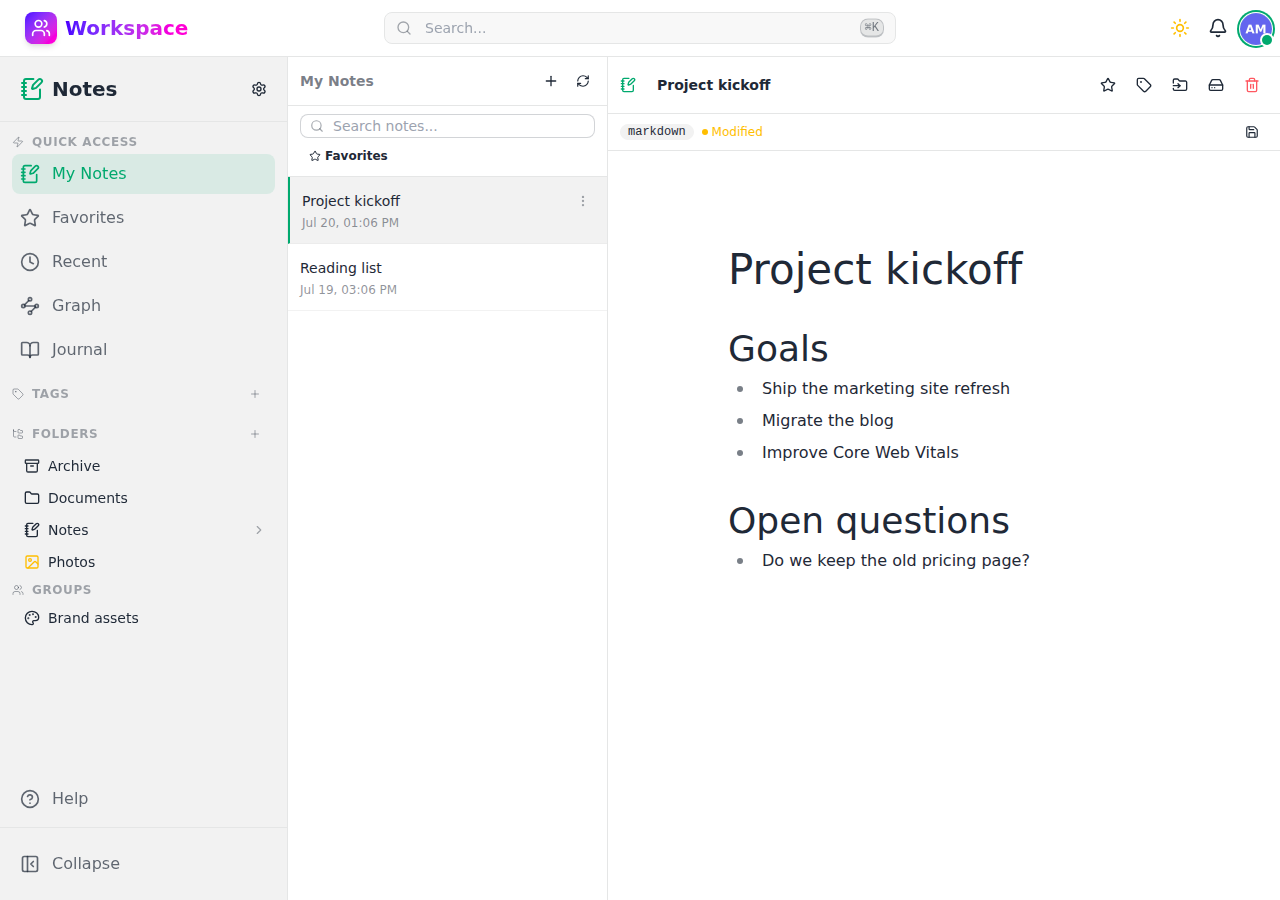
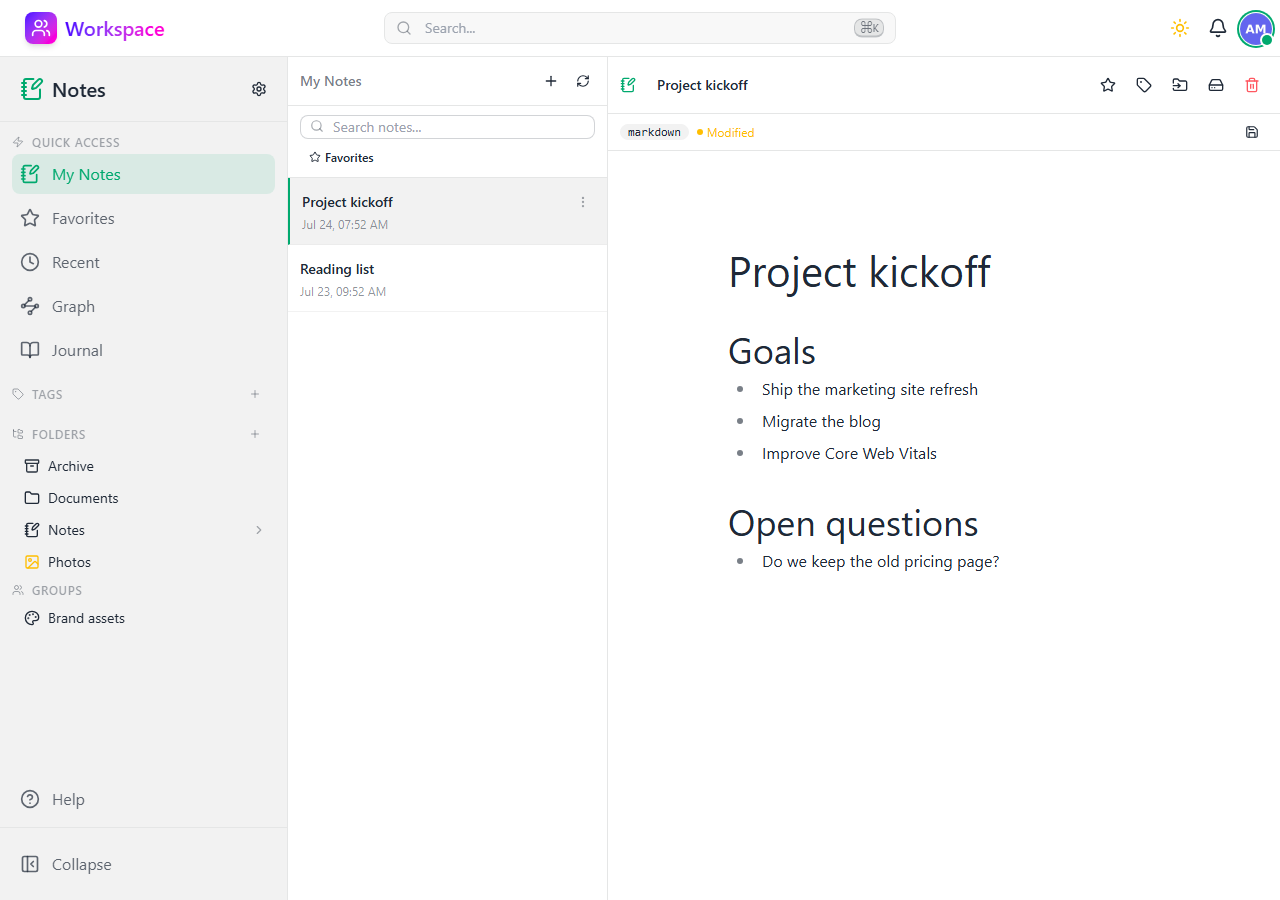
feat(screenshots): pin locale and timezone for consistent rendering

diff --git a/scripts/screenshots.py b/scripts/screenshots.py
@@ -47,6 +47,16 @@ VIEWPORT = {"width": 1280, "height": 900}
 USERNAME = "alex"
 PASSWORD = "screenshots-demo"
 
+# Pinned, not inherited from the host: pages format dates client-side with
+# toLocaleDateString(undefined, ...), so an unpinned context captures the
+# machine's locale (a French host writes "samedi 25 juillet"). The timezone
+# matches settings.TIME_ZONE so client-rendered times agree with server ones.
+CONTEXT_OPTIONS = {
+    "viewport": VIEWPORT,
+    "locale": "en-US",
+    "timezone_id": "UTC",
+}
+
 # --offline only: npm CDN URLs (jsdelivr / unpkg) are intercepted and
 # served from a local cache. On a cache miss the file is fetched from
 # the CDN when reachable, else from the registry.npmjs.org tarball (the
@@ -213,13 +223,13 @@ def capture(base_url, context, only=None, offline=False):
         browser = p.chromium.launch(executable_path=chromium_path())
         if offline:
             # The service worker would bypass our CDN routes; block it.
-            ctx = browser.new_context(viewport=VIEWPORT, service_workers="block")
+            ctx = browser.new_context(**CONTEXT_OPTIONS, service_workers="block")
             ctx.route("https://cdn.jsdelivr.net/**", _serve_cdn_asset)
             ctx.route("https://unpkg.com/**", _serve_cdn_asset)
             for pattern in BLOCKED_URL_PATTERNS:
                 ctx.route(pattern, lambda route: route.abort())
         else:
-            ctx = browser.new_context(viewport=VIEWPORT)
+            ctx = browser.new_context(**CONTEXT_OPTIONS)
         page = ctx.new_page()
 
         page.goto(f"{base_url}/login")

diff --git a/scripts/_screenshot_seed.py b/scripts/_screenshot_seed.py
@@ -230,7 +230,7 @@ def _seed_notes(alex, now):
         (
             journal_folder,
             f"{now:%Y-%m-%d}.md",
-            f"# {now:%A, %B %-d}\n\nSketched the new hero section this morning, "
+            f"# {now:%A, %B} {now.day}\n\nSketched the new hero section this morning, "
             "then paired with Sam on the palette. Feeling good about the direction.\n",
             2,
         ),
